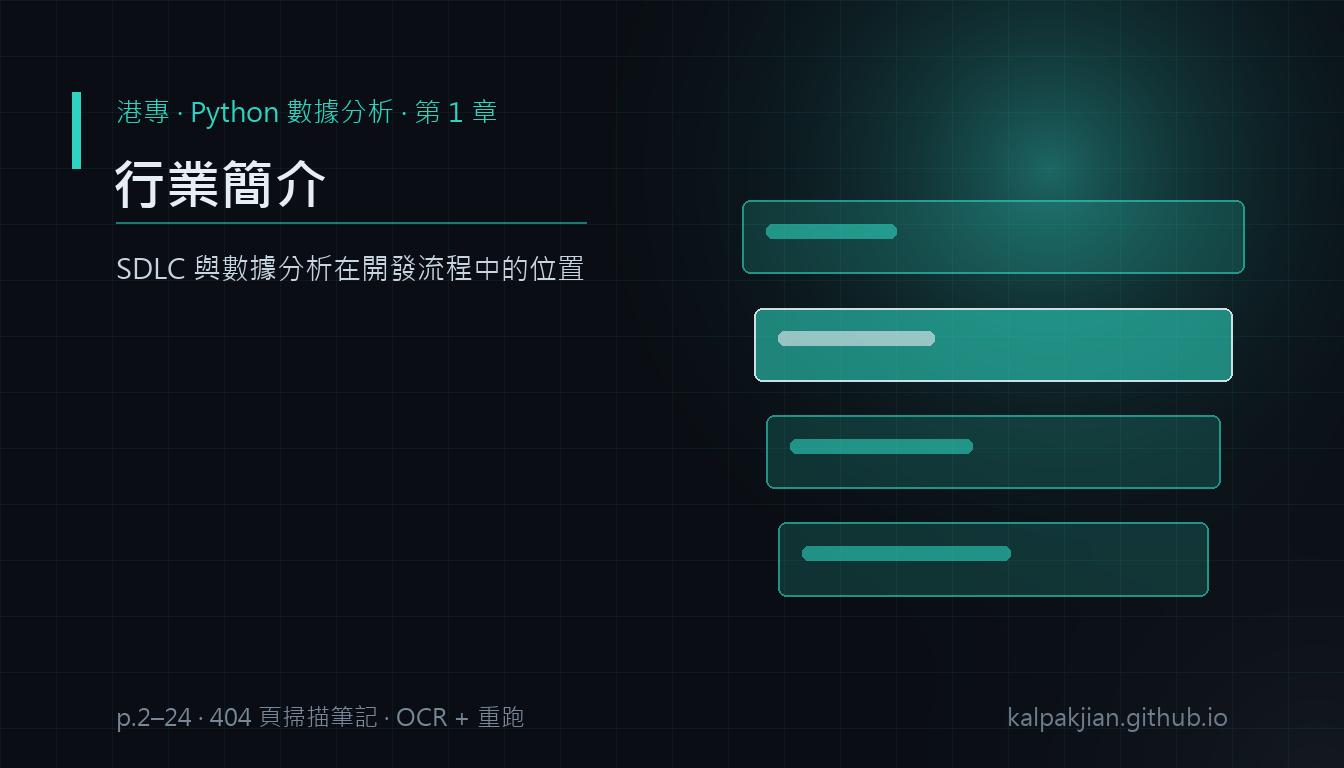
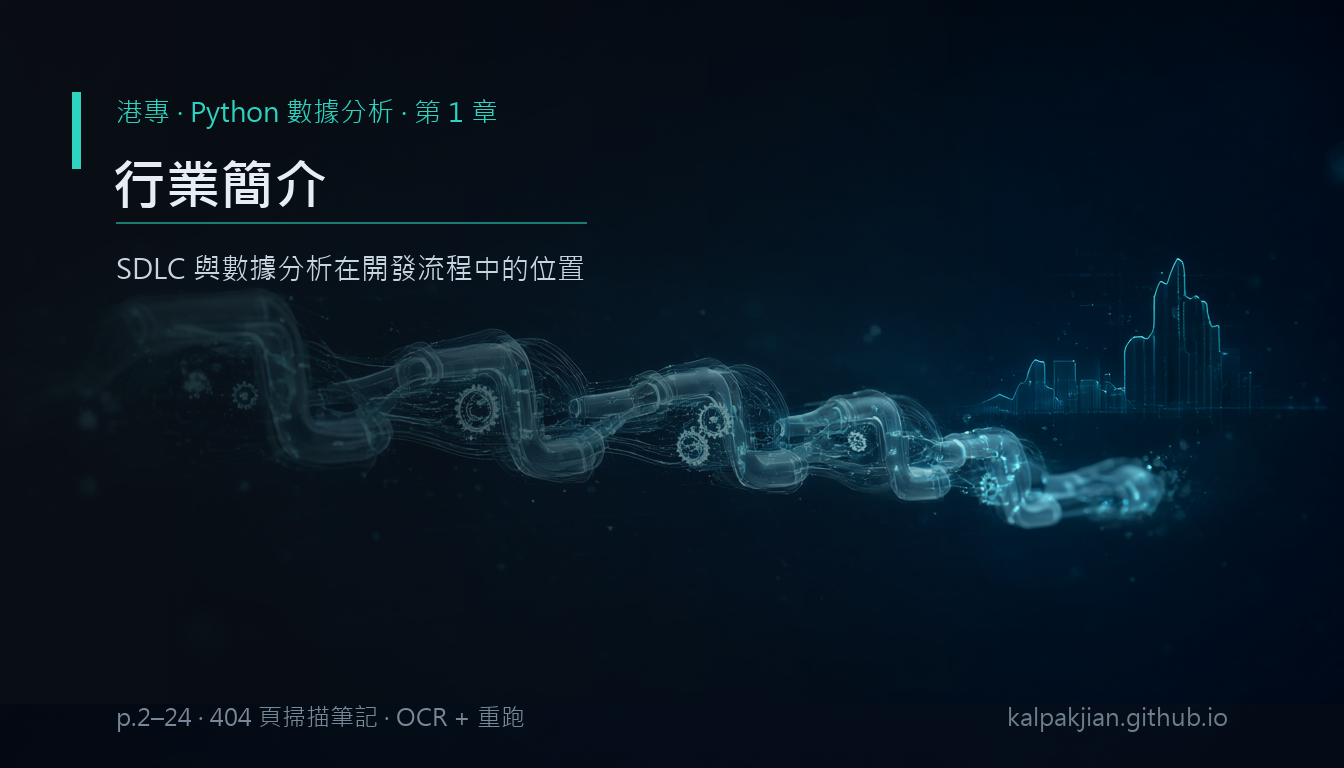
covers: 13 章封面改用 Qwen-Image 2.1 底圖 + 疊字
- _covergen/plan_pyda_covers.json：13 條 motif + seed 7101..7113（第 8 章換 seed 7208 重出）

- gen_cover_pyda.py 加 --bg-dir：有 Qwen 底圖就裁切＋左側暗幕＋疊字，沒有就退回程序化

- source/img/covers/python-da-chNN.png：0.46–0.56 MB/張（原程序化版 0.08–0.10 MB）

Changed region(s): [[0.125, 0.0, 0.9375, 0.7812]]

diff --git a/_covergen/gen_cover_pyda.py b/_covergen/gen_cover_pyda.py
@@ -1,4 +1,4 @@
-"""產生「Python 初級數據分析員證書」13 章的課程頁封面（1344×768，與站上其他封面同尺寸）。
+"""產生「Python 初級數據分析員證書」13 章的課程頁封面（1344×768，與站上其他封面同尺寸）。
 
 與 gen_cover_report.py 同一條程序化路線：近黑底 + 細格線 + 兩團光暈 + 左側文字塊，
 右側依章節畫對應的圖樣（長條／曲線／矩陣／表格／散點）。不需要 ComfyUI。
@@ -14,6 +14,7 @@ import os
 from PIL import Image, ImageDraw, ImageFont
 
 REPO = os.path.dirname(os.path.dirname(os.path.abspath(__file__)))
+HERE = os.path.dirname(os.path.abspath(__file__))
 COVERS = os.path.join(REPO, "source", "img", "covers")
 
 # Noto（Linux CI／WSL）優先，其次 Windows 內建的微軟正黑體
@@ -213,6 +214,14 @@ CHAPTERS = [
 
 HOT = (235, 240, 246)  # 強調點一律近白，避免第二套色相打架
 
+# Qwen 底圖的檔名（= plan_pyda_covers.json 的 slug，也是章節頁檔名）
+ART_SLUGS = {
+    1: "ch01-industry", 2: "ch02-python-tools", 3: "ch03-statistics", 4: "ch04-linear-algebra",
+    5: "ch05-viz-basics", 6: "ch06-dataskills", 7: "ch07-numpy", 8: "ch08-pandas",
+    9: "ch09-viz-tools", 10: "ch10-matplotlib", 11: "ch11-seaborn", 12: "ch12-plotly",
+    13: "ch13-storytelling",
+}
+
 
 def wrap(d, text, fnt, max_w, max_lines=3):
     """把標題切成 1–3 行，行寬盡量平均（避免出現只有一兩個字的孤行）。"""
@@ -256,11 +265,35 @@ def wrap(d, text, fnt, max_w, max_lines=3):
     return [text]
 
 
-def make(num, title, blurb, pages, accent, motif):
+def load_bg(path, w, h):
+    """Qwen 產的無文字底圖：裁成目標比例，左側壓漸層暗幕讓標題讀得出來。"""
+    src = Image.open(path).convert("RGB")
+    sw, sh = src.size
+    scale = max(w / sw, h / sh)
+    src = src.resize((int(sw * scale + 0.5), int(sh * scale + 0.5)), Image.LANCZOS)
+    left, top = (src.width - w) // 2, (src.height - h) // 2
+    img = src.crop((left, top, left + w, top + h))
+
+    scrim = Image.new("RGBA", (w, h), (0, 0, 0, 0))
+    d = ImageDraw.Draw(scrim)
+    stop = int(w * 0.74)
+    for x in range(stop):
+        a = int(242 * (1 - x / stop) ** 0.60)
+        d.line([(x, 0), (x, h)], fill=BG + (a,))
+    d.rectangle([(0, h - 64), (w, h)], fill=BG + (110,))
+    return Image.alpha_composite(img.convert("RGBA"), scrim).convert("RGB")
+
+
+def make(num, title, blurb, pages, accent, motif, bg_dir=None):
     w, h = 1344, 768
-    img = backdrop(w, h, accent)
-    d = ImageDraw.Draw(img, "RGBA")
-    motif(d, (742, 200, 1244, 630), accent, HOT)
+    art = os.path.join(bg_dir, ART_SLUGS[num] + ".png") if bg_dir else None
+    if art and os.path.exists(art):
+        img = load_bg(art, w, h)
+        d = ImageDraw.Draw(img, "RGBA")
+    else:
+        img = backdrop(w, h, accent)
+        d = ImageDraw.Draw(img, "RGBA")
+        motif(d, (742, 200, 1244, 630), accent, HOT)
 
     f_kick, f_title, f_sub, f_meta = font(REG_CANDIDATES, 27), font(BOLD_CANDIDATES, 54), \
         font(REG_CANDIDATES, 28), font(REG_CANDIDATES, 24)
@@ -290,9 +323,13 @@ def make(num, title, blurb, pages, accent, motif):
 if __name__ == "__main__":
     ap = argparse.ArgumentParser()
     ap.add_argument("--only", type=int, default=0, help="只畫第 N 章")
+    ap.add_argument("--bg-dir", default=os.path.join(HERE, "out", "pyda"),
+                    help="Qwen-Image 底圖目錄（chNN.png）；沒有底圖就退回程序化背景")
     args = ap.parse_args()
     os.makedirs(COVERS, exist_ok=True)
+    bg_dir = args.bg_dir if os.path.isdir(args.bg_dir) else None
+    print("background:", bg_dir or "(procedural)")
     for row in CHAPTERS:
         if args.only and row[0] != args.only:
             continue
-        make(*row)
+        make(*row, bg_dir=bg_dir)

diff --git a/_covergen/README.md b/_covergen/README.md
@@ -18,7 +18,8 @@ compose_cover*.py（或 gen_cover_report.py --bg）──PIL──▶  source/im
 | `compose_cover.py`、`compose_cover_cnn.py` | 把候選疊成 index_img＋banner_img（`SLUG` 寫在檔頭，換篇要改） |
 | `gen_cover_report_qwen.py` | 「25 頁教材核對報告」那篇的 4 張候選 |
 | `gen_cover_report.py` | 同篇的文字編排；`--bg` 吃 Qwen 圖、不給就畫程序化背景 |
-| `gen_cover_pyda.py` | 「Python 初級數據分析員證書」13 章課程頁封面（1344×768）：**純程序化**（光暈＋格線＋章節圖樣＋標題），不需 ComfyUI；字型自動挑 Noto CJK／微軟正黑。`python _covergen/gen_cover_pyda.py [--only 8]` |
+| `gen_cover_pyda.py` | 「Python 初級數據分析員證書」13 章課程頁封面（1344×768）：有 `_covergen/out/pyda/<slug>.png`（Qwen 底圖）就疊字合成，沒有就退回程序化背景；字型自動挑 Noto CJK／微軟正黑。`python _covergen/gen_cover_pyda.py [--only 8]` |
+| `plan_pyda_covers.json` | 上述 13 張的 Qwen-Image 計劃（seed 7101–7113、每章一條 motif）。`python <skills>\qwen-image-illustrations\scripts\batch_figures.py --plan _covergen\plan_pyda_covers.json` → 無文字底圖到 `_covergen/out/pyda/` |
 
 ## 前置
 
@@ -52,3 +53,4 @@ cd ~/Projects/ComfyUI && .venv/bin/python main.py --listen 127.0.0.1 --port 8188
   沒有這層的話，Qwen 圖右側的洋紅光會把標題吃掉（實測踩過一次）。
 - **檔案大小**：站上其他封面 0.8–0.9 MB，別壓到很低；`_covergen/out/` 產 10–15 MB 的原始圖，**不版控**。
 - **可換路徑**：`COMFYUI_DIR` 環境變數可覆寫 ComfyUI 位置（預設 `~/Projects/ComfyUI`）。
+- **Qwen 產圖掛掉先看 `comfy_aimdo`**：`ModelVBAR.__init__() got an unexpected keyword argument 'pageout_callback'` = `python_embeded` 的 comfy-aimdo 0.5.6 太舊；改用 `D:\AI\comfyUI\python_embeded_nightly\python.exe main.py --listen 127.0.0.1 --port 8188`（comfy-aimdo 0.6.0）即可（2026-11-19 實測）。
